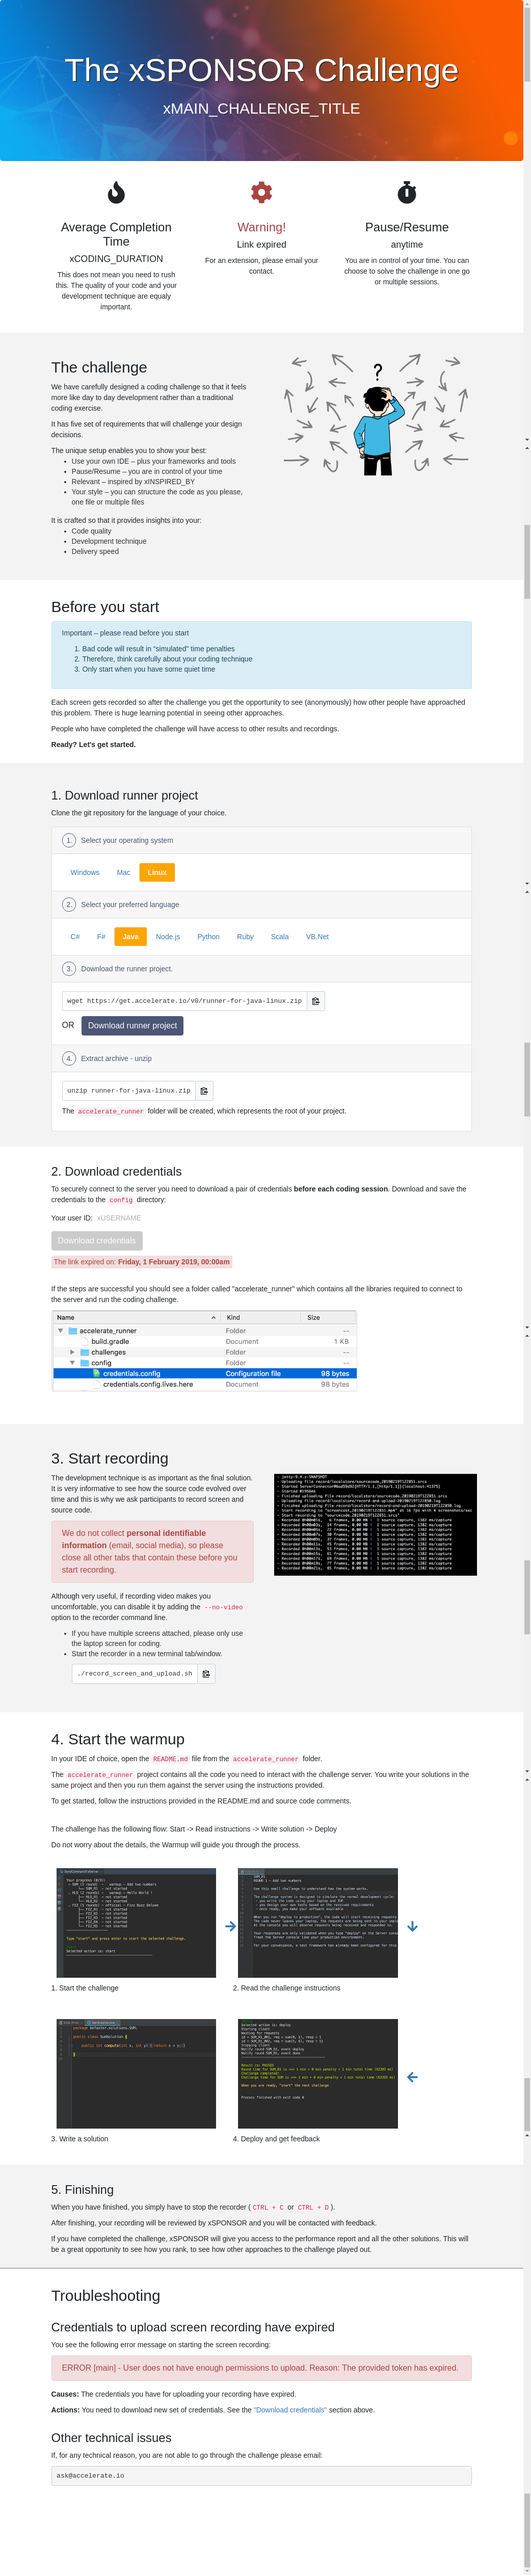
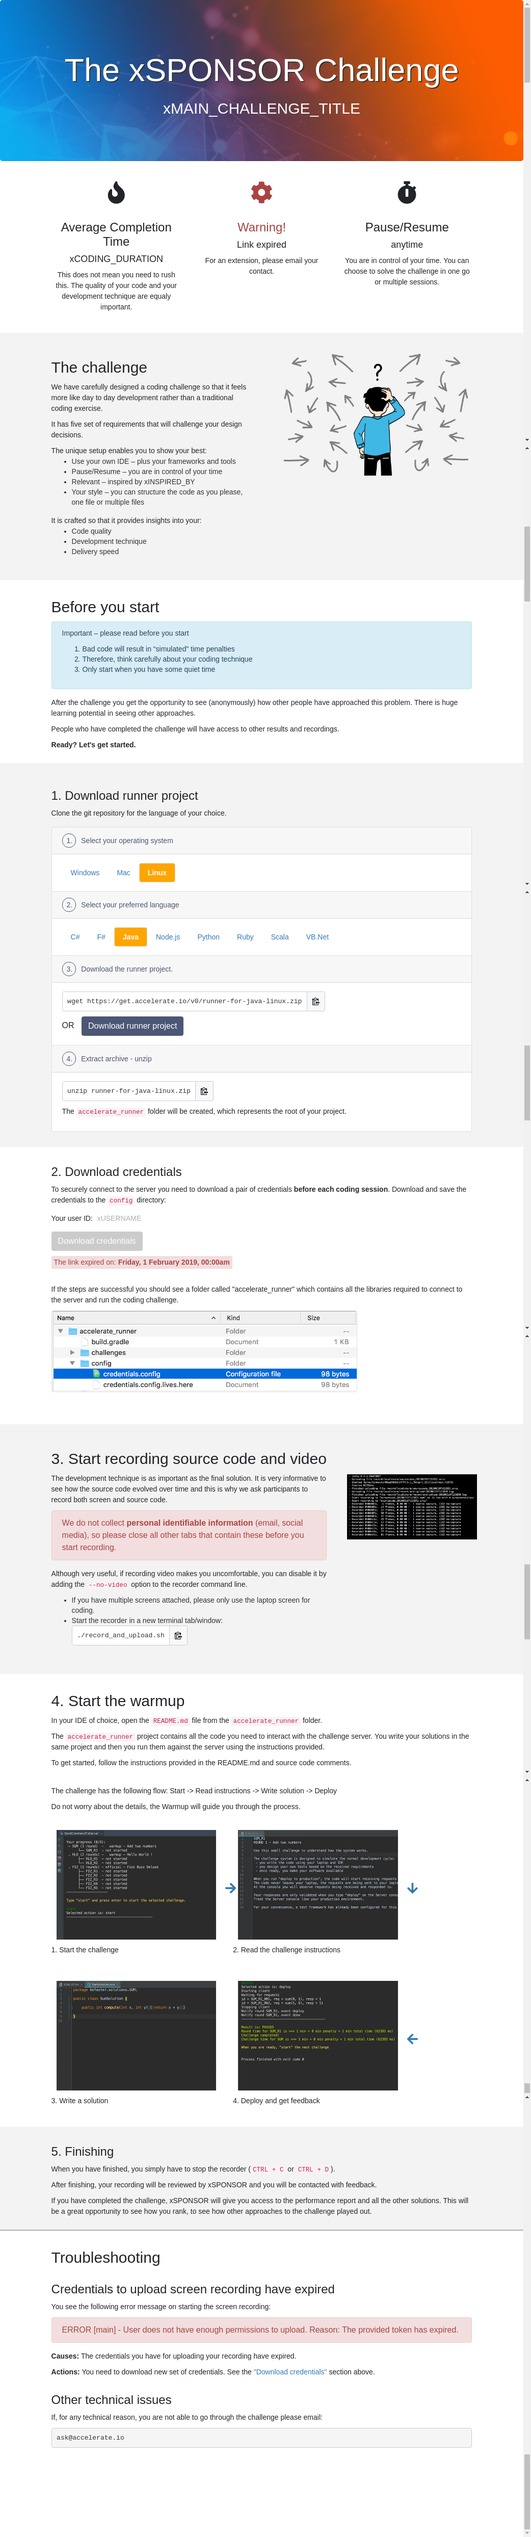
Change the noVideo option to an enum with three values: MANDATORY, OPTIONAL, DISABLED

diff --git a/src/webTests/java/tdl/auth/linkgenerator/IntroPageVisualRegressionTest.java b/src/webTests/java/tdl/auth/linkgenerator/IntroPageVisualRegressionTest.java
@@ -91,7 +91,7 @@ public class IntroPageVisualRegressionTest {
     //~~~~~~~ Tests
 
     @Test
-    public void testValidLinkDefaultView() throws Exception {
+    public void test_valid_link_default_view() throws Exception {
 
         IntroPage p = generateAndServe(validLinkPageParameters()
                 .defaultLanguage("Ruby")
@@ -102,7 +102,7 @@ public class IntroPageVisualRegressionTest {
     }
 
     @Test
-    public void testValidLinkSelectRunner() throws Exception {
+    public void test_valid_link_select_runner() throws Exception {
 
         IntroPage p = generateAndServe(validLinkPageParameters()
                 .build());
@@ -116,20 +116,31 @@ public class IntroPageVisualRegressionTest {
 
 
     @Test
-    public void testAllTogglesChanged() throws Exception {
+    public void test_flags_MandatoryVideo_DoNotApplyPressure_DisableReportSharing() throws Exception {
         IntroPageParameters introPageParameters = validLinkPageParameters()
-                .enableNoVideoOption(false)
+                .videoRecordingOption(VideoRecordingOption.MANDATORY)
                 .enableApplyPressure(false)
                 .enableReportSharing(false)
                 .build();
 
         IntroPage p = generateAndServe(introPageParameters);
 
-        p.assertScreenVisuallyMatches("all_toggles_set_to_false.png");
+        p.assertScreenVisuallyMatches("flags_MandatoryVideo_DoNotApplyPressure_DisableReportSharing.png");
     }
 
     @Test
-    public void testExpiredLink() throws Exception { ;
+    public void test_flags_VideoDisabled() throws Exception {
+        IntroPageParameters introPageParameters = validLinkPageParameters()
+                .videoRecordingOption(VideoRecordingOption.DISABLED)
+                .build();
+
+        IntroPage p = generateAndServe(introPageParameters);
+
+        p.assertScreenVisuallyMatches("flags_VideoDisabled.png");
+    }
+
+    @Test
+    public void test_expired_link() throws Exception {
         IntroPageParameters introPageParameters = expiredLinkPageParameters()
                 .build();
 

diff --git a/src/test/java/tdl/auth/linkgenerator/IntroPageTemplateTest.java b/src/test/java/tdl/auth/linkgenerator/IntroPageTemplateTest.java
@@ -25,7 +25,7 @@ public class IntroPageTemplateTest {
                 .sponsorName("sponsorName")
                 .inspiredByLabel("divineInspiration")
                 .codingSessionDurationLabel("3hours")
-                .enableNoVideoOption(true)
+                .videoRecordingOption(VideoRecordingOption.MANDATORY)
                 .enableApplyPressure(true)
                 .username("myUsername")
                 .challenge("myChallenge")
@@ -41,7 +41,7 @@ public class IntroPageTemplateTest {
         assertThat(content, containsString(params.getUsername()));
         assertThat(content, containsString(params.getChallenge()));
         assertThat(content, containsString(params.getCodingSessionDurationLabel()));
-        assertThat(content, containsString("no video option enabled"));
+        assertThat(content, containsString("video recording is mandatory"));
         assertThat(content, containsString("applying pressure"));
         assertThat(content, containsString(params.getToken()));
         assertThat(content, containsString(authUrl));

diff --git a/src/main/java/tdl/auth/linkgenerator/IntroPageTemplate.java b/src/main/java/tdl/auth/linkgenerator/IntroPageTemplate.java
@@ -42,7 +42,7 @@ public class IntroPageTemplate {
         contentParams.put("EXPIRATION_DATE", introPageParameters.getExpirationDate().getTime());
         contentParams.put("CODING_SESSION_DURATION", introPageParameters.getCodingSessionDurationLabel());
         contentParams.put("DEFAULT_LANGUAGE", introPageParameters.getDefaultLanguage());
-        contentParams.put("ENABLE_NO_VIDEO_OPTION", introPageParameters.getEnableNoVideoOption());
+        contentParams.put("VIDEO_RECORDING_OPTION", introPageParameters.getVideoRecordingOption());
         contentParams.put("ENABLE_APPLY_PRESSURE", introPageParameters.getEnableApplyPressure());
         contentParams.put("ENABLE_REPORT_SHARING", introPageParameters.getEnableReportSharing());
         contentParams.put("USERNAME", introPageParameters.getUsername());

diff --git a/src/main/java/tdl/auth/LinkGeneratorLambdaHandler.java b/src/main/java/tdl/auth/LinkGeneratorLambdaHandler.java
@@ -112,7 +112,7 @@ public class LinkGeneratorLambdaHandler implements RequestHandler<LinkGeneratorR
                 .inspiredByLabel(request.getInspiredByLabel())
                 .codingSessionDurationLabel(request.getCodingDurationLabel())
                 .defaultLanguage(request.getDefaultLanguage())
-                .enableNoVideoOption(request.getEnableNoVideoOption())
+                .videoRecordingOption(request.getVideoRecordingOption())
                 .enableApplyPressure(request.getEnableApplyPressure())
                 .enableReportSharing(request.getEnableReportSharing())
                 .username(request.getUsername())

diff --git a/src/main/java/tdl/auth/linkgenerator/IntroPageParameters.java b/src/main/java/tdl/auth/linkgenerator/IntroPageParameters.java
@@ -17,7 +17,7 @@ public class IntroPageParameters {
     @Builder.Default private String inspiredByLabel = "xINSPIRED_BY";
     @Builder.Default private String codingSessionDurationLabel = "xCODING_DURATION";
     @Builder.Default private String defaultLanguage = "Java";
-    @Builder.Default private Boolean enableNoVideoOption = true;
+    @Builder.Default private VideoRecordingOption videoRecordingOption = VideoRecordingOption.OPTIONAL;
     @Builder.Default private Boolean enableApplyPressure = true;
     @Builder.Default private Boolean enableReportSharing = true;
     @Builder.Default private String username = "xUSERNAME";

diff --git a/src/test/java/tdl/auth/LinkGeneratorLambdaAcceptanceTest.java b/src/test/java/tdl/auth/LinkGeneratorLambdaAcceptanceTest.java
@@ -10,6 +10,7 @@ import org.junit.Rule;
 import org.junit.Test;
 import org.junit.contrib.java.lang.system.EnvironmentVariables;
 import tdl.auth.linkgenerator.LinkGeneratorRequest;
+import tdl.auth.linkgenerator.VideoRecordingOption;
 
 import java.io.IOException;
 import java.util.Arrays;
@@ -51,7 +52,7 @@ public class LinkGeneratorLambdaAcceptanceTest {
                 "fire and ice",
                 "0 seconds",
                 "Java",
-                true,
+                VideoRecordingOption.OPTIONAL,
                 true,
                 true,
                 TEST_USERNAME,

diff --git a/src/webTests/java/tdl/auth/linkgenerator/IntroPageManualRender.java b/src/webTests/java/tdl/auth/linkgenerator/IntroPageManualRender.java
@@ -28,6 +28,7 @@ public class IntroPageManualRender {
                 .mainChallengeTitle("Developer Insights")
                 .sponsorName("RecWorks")
                 .enableApplyPressure(false)
+                .videoRecordingOption(VideoRecordingOption.MANDATORY)
                 .inspiredByLabel("real business domain")
                 .codingSessionDurationLabel("3 hours")
                 .defaultLanguage("Java")

diff --git a/src/main/java/tdl/auth/linkgenerator/LinkGeneratorRequest.java b/src/main/java/tdl/auth/linkgenerator/LinkGeneratorRequest.java
@@ -16,7 +16,7 @@ public class LinkGeneratorRequest {
     private String inspiredByLabel;
     private String codingDurationLabel;
     private String defaultLanguage;
-    private Boolean enableNoVideoOption;
+    private VideoRecordingOption videoRecordingOption;
     private Boolean enableApplyPressure;
     private Boolean enableReportSharing;
     private String username;

diff --git a/src/main/java/tdl/auth/linkgenerator/VideoRecordingOption.java b/src/main/java/tdl/auth/linkgenerator/VideoRecordingOption.java
@@ -1,0 +1,5 @@
+package tdl.auth.linkgenerator;
+
+public enum VideoRecordingOption {
+    MANDATORY, OPTIONAL, DISABLED
+}
